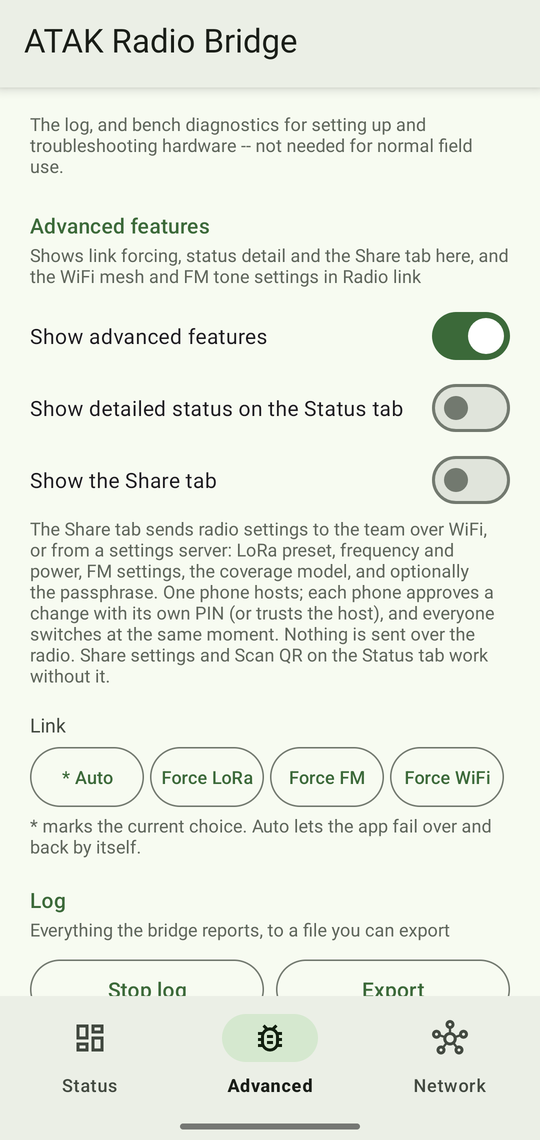
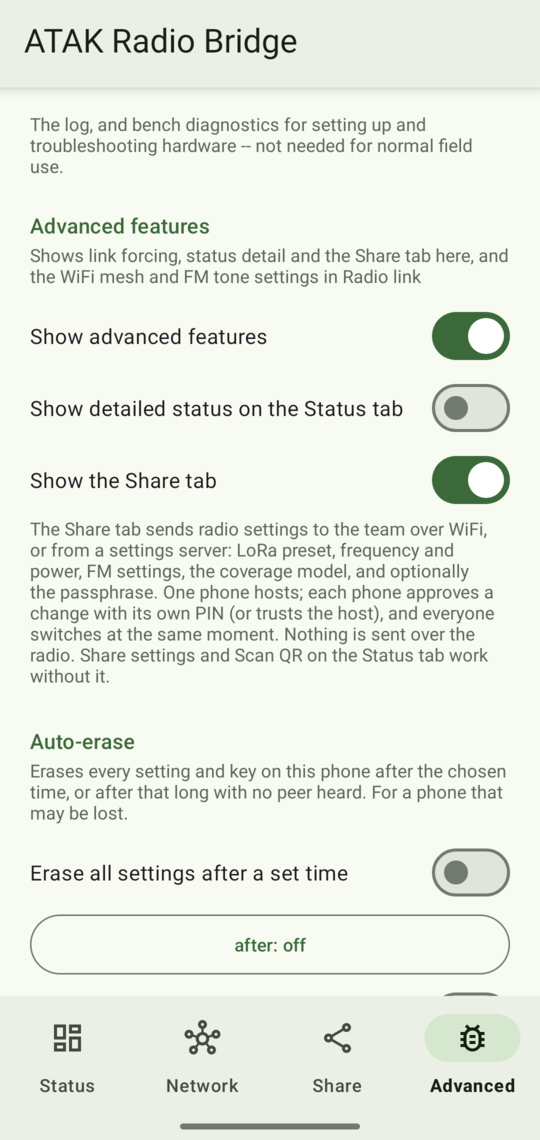
Retake the two screenshots that no longer matched the app
advanced.png predated auto-erase entirely: the section was missing from the
only picture of the tab it lives on. status.png predated the bottom bar
changing order. Both now show the app as it is, including the Share tab.

The Status shot is taken on a deliberately staged phone: node id 1a2b3c, the
radio renamed RNode 1234, 915.000 MHz, and a passphrase of the literal word
"example" six times, whose key fingerprint is 63f9. Nothing in it belongs to
a real network, and the guide's example key line is updated to match the
picture rather than the other way round. The device model is the one real
string left and is already all over the bench comments.

Both PNGs are stripped to IHDR/IDAT/IEND, like the three that were already
here -- ImageMagick adds a tIME chunk recording when the file was written,
which is a capture date nobody needs.

advanced.png's alt text no longer claims to show the link buttons: the new
section pushes them below the fold, and alt text that describes something
that is not in the picture is worse than none.

diff --git a/docs/USER-GUIDE.md b/docs/USER-GUIDE.md
@@ -196,7 +196,7 @@ The tab you use day to day.
 
 - **Identity:** this node's id. The radio's name appears when connected over
   Bluetooth.
-- **Network key line:** for example `Network key 3f9a · Short Slow · 915.000
+- **Network key line:** for example `Network key 63f9 · Short Slow · 915.000
   MHz`. The four-character key is a fingerprint of the passphrase. Everything
   on this line must be the same on every phone. A wrong passphrase and a dead
   radio look the same from one phone, so compare this line first.
@@ -244,7 +244,7 @@ The tab you use day to day.
 
 Bench and field-test tools.
 
-<img src="images/advanced.png" width="300" alt="The Advanced tab with advanced features shown: the three switches and the link buttons">
+<img src="images/advanced.png" width="300" alt="The Advanced tab with advanced features shown: the three switches, and the start of the Auto-erase section. Link forcing, the log and the diagnostics are further down.">
 
 - **Advanced features:** **Show advanced features** reveals:
   - **Show the Share tab:** off by default. *Share settings* and *Scan QR* on the
